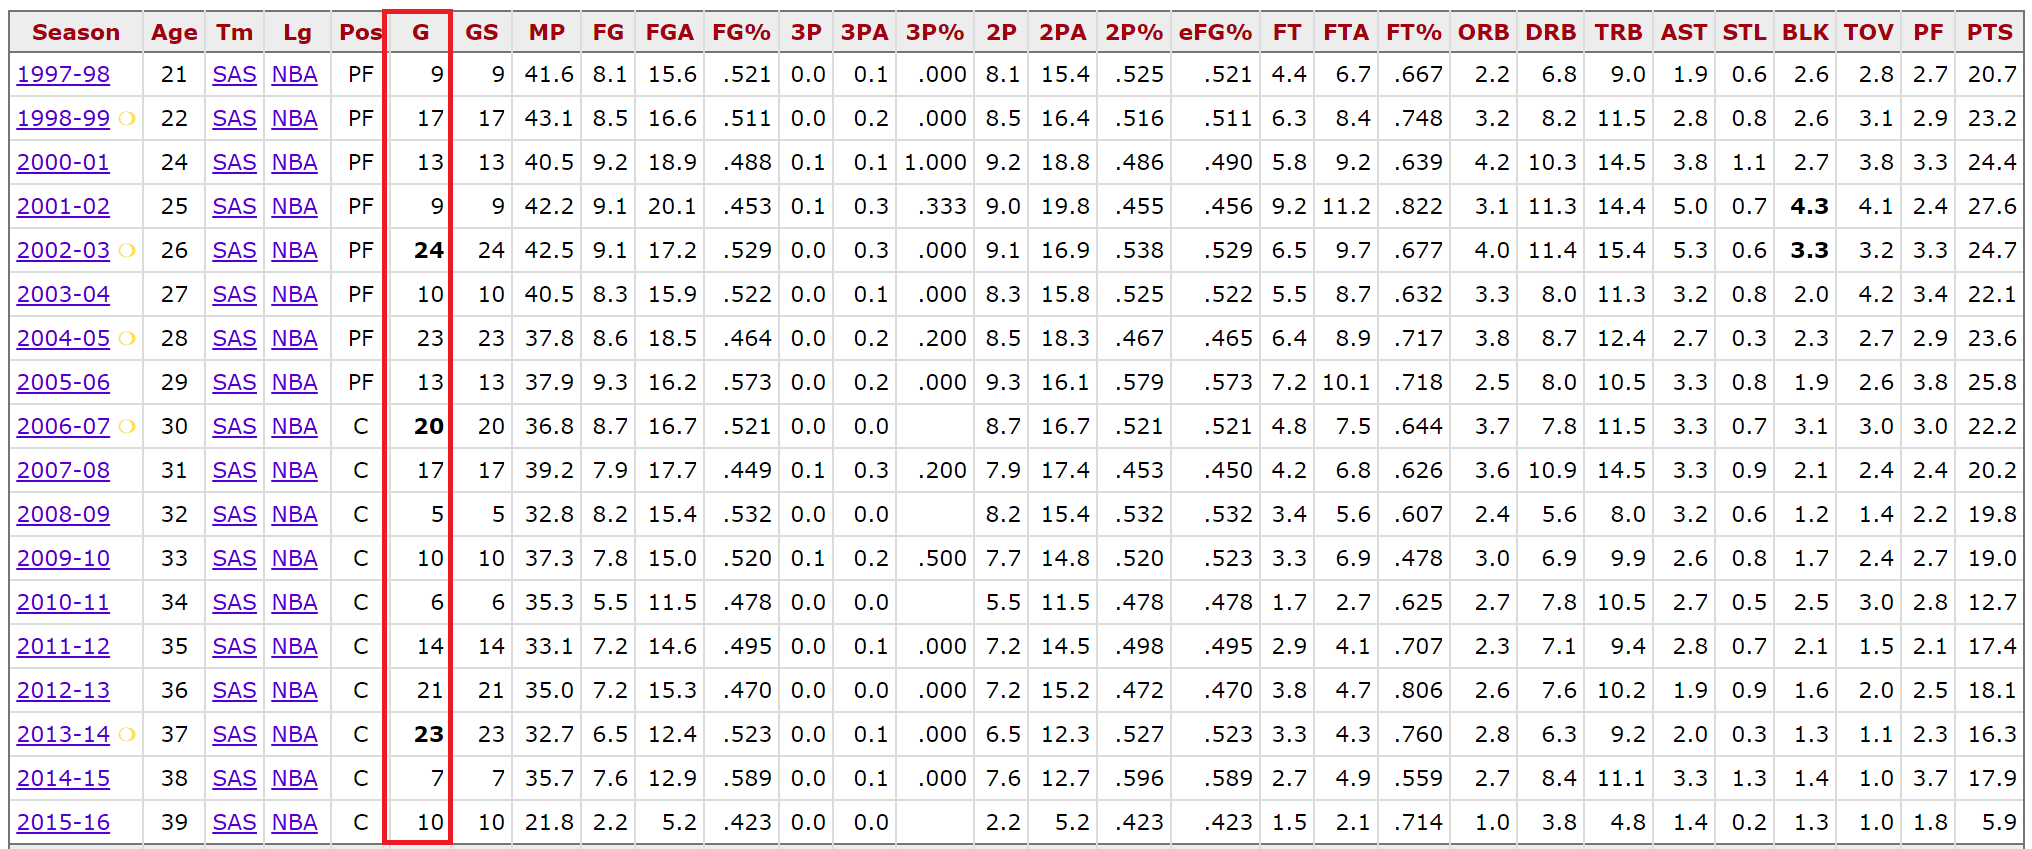
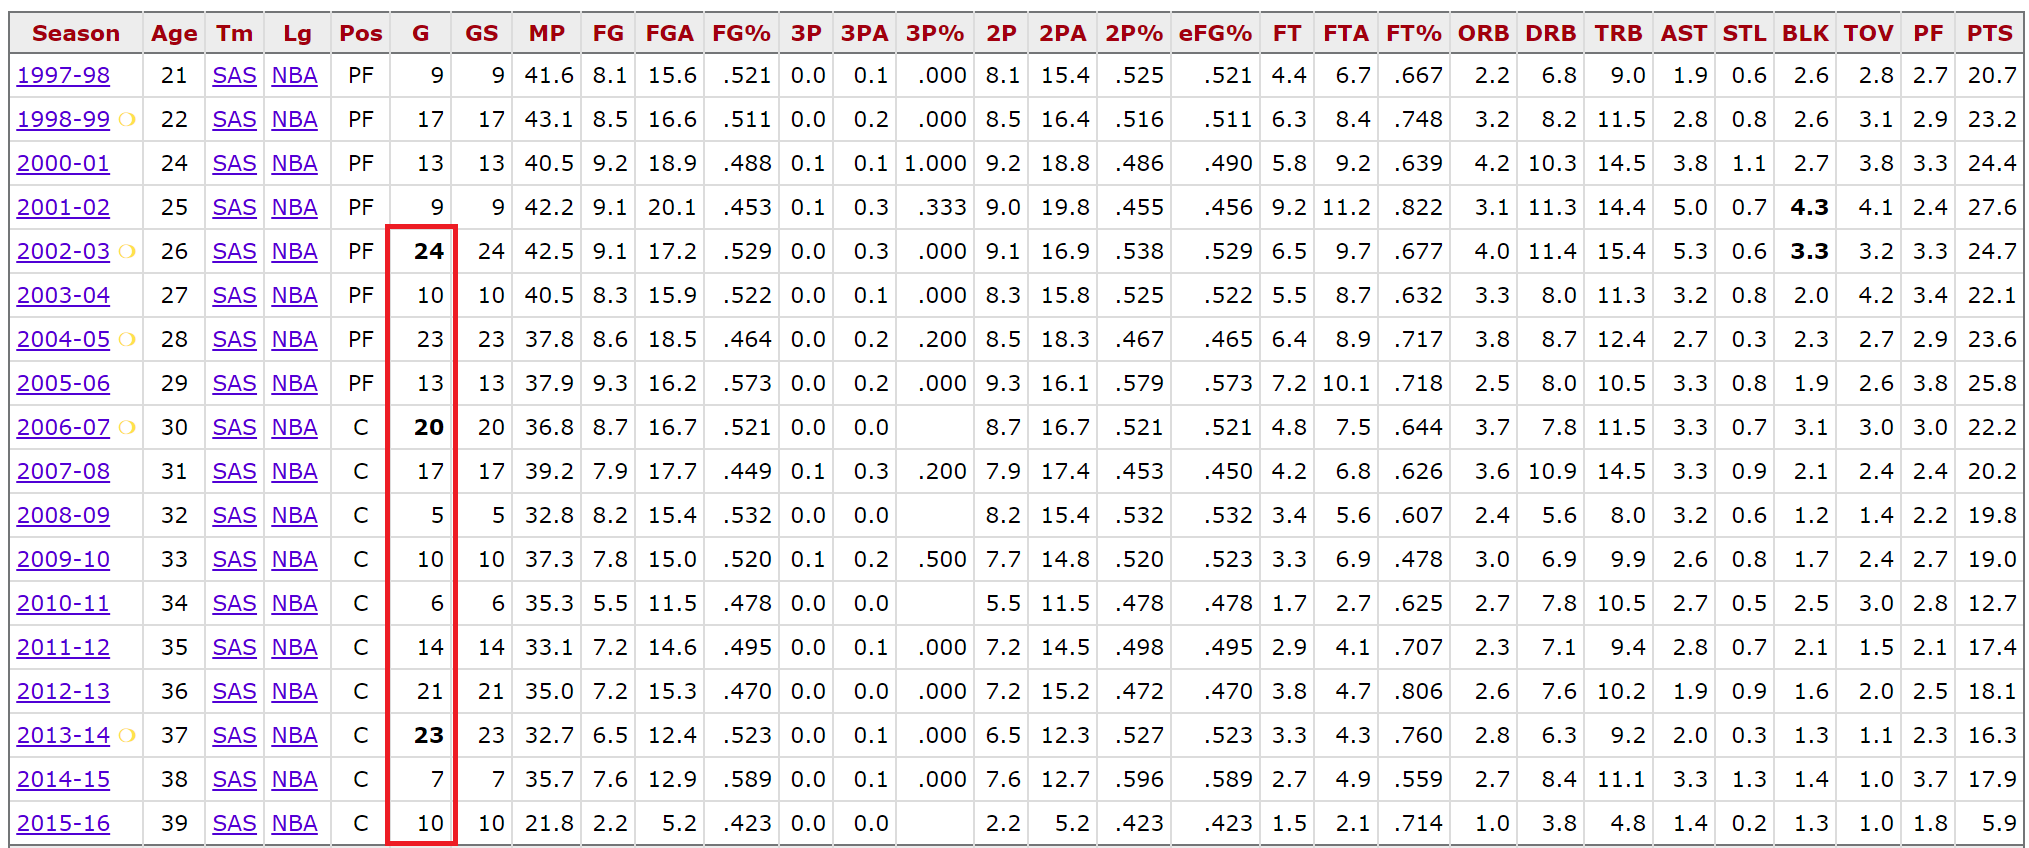
fix nba playoff rule change and reconstruct code

Changed region(s): [[0.0, 0.0, 1.0, 1.0]]

diff --git a/questions-and-answers/playoff_games_cnt.py b/questions-and-answers/playoff_games_cnt.py
@@ -2,22 +2,26 @@
 Question:
 given the number of NBA playoff games a team played in a season,
 can we (if yes, how to) determine which rounds(R1, CSF, CF, F) the team advanced to?
-
-
 """
 
-N = 8  # the number of rounds (N = 4 in NBA)
+N = 4  # the number of rounds (N = 4 in NBA)
 
-# games_cnt[i] = a list of all possible number of games a team plays up to round i
-games_cnt = [[j for j in range(4 * i, 7 * i + 1)] for i in range(N)]
+# games_cnt[i] = a list of all possible number of games a team plays up to round i (1 <= i <= N)
+games_cnt = [[j for j in range(4 * i, 7 * i + 1)] for i in range(N + 2)]
 
-for i in range(1, N - 1):
+for i in range(1, N + 1):
     for j in range(len(games_cnt[i])):
-        # only print unique numbers
-        if (games_cnt[i][j] in games_cnt[i - 1]) or (games_cnt[i][j] in games_cnt[i + 1]):
-            print("-", end="\t")
-        else:
+        # R1 (no rounds before)
+        if i == 1 and (games_cnt[i][j] not in games_cnt[i + 1]):
             print(games_cnt[i][j], end="\t")
+        # F (no rounds after)
+        elif i == N and (games_cnt[i][j] not in games_cnt[i - 1]):
+            print(games_cnt[i][j], end="\t")
+        # CSF, CF (have rounds before and after)
+        elif (games_cnt[i][j] not in games_cnt[i - 1]) and (games_cnt[i][j] not in games_cnt[i + 1]):
+            print(games_cnt[i][j], end="\t")
+        else:
+            print("-", end="\t")
     print()
 print()
 
@@ -26,9 +30,16 @@ such number x exists when
 max # of games up to the previous round < x < min # of games up to the next round
 
 we also know that x won't exist after round 3 because: let i be the i-th round, 
-if 7*(i-1) < 4*(i+1) then i < 11/3 < 4
+if 7*(i-1) < 4*(i+1) then i < 11/3 < 4 (but in NBA there is no such restriction for round 4 (final))
 """
-for i in range(1, N):
+for i in range(1, N + 1):
     for x in range(4 * i, 7 * i + 1):
-        if 7 * (i - 1) < x < 4 * (i + 1):
+        # R1 (no rounds before)
+        if i == 1 and x < 4 * (i + 1):
+            print(x, end=", ")
+        # F (no rounds after)
+        elif i == N and x > 7 * (i - 1):
+            print(x, end=", ")
+        # CSF, CF (have rounds before and after)
+        elif 7 * (i - 1) < x < 4 * (i + 1):
             print(x, end=", ")

diff --git a/questions-and-answers/README.md b/questions-and-answers/README.md
@@ -2,10 +2,10 @@
 
 ## Question 1
 
-Given the number of NBA playoff games a player played in a season, can we (if yes, how to) determine which rounds (R1, CSF, CF, F) his team advanced to?
+Given the number of NBA playoff games a team played in a season, can we (if yes, how to) determine which rounds (R1, CSF, CF, F) the team advanced to?
 
 For example, the highlighted column in the table below (from [here](https://www.basketball-reference.com/players/d/duncati01.html)) 
-shows the number of playoff games Tim Duncan played in each season of his career.
+shows the number of playoff games Tim Duncan played in each season of his career after 2002 (R1 was extended to a best-of-seven series in 2003).
 ![Tim Duncan stats](../images/tim_duncan_stats.PNG)
 
 It turns out that some of the numbers can, others don't, see the codes for more details.
